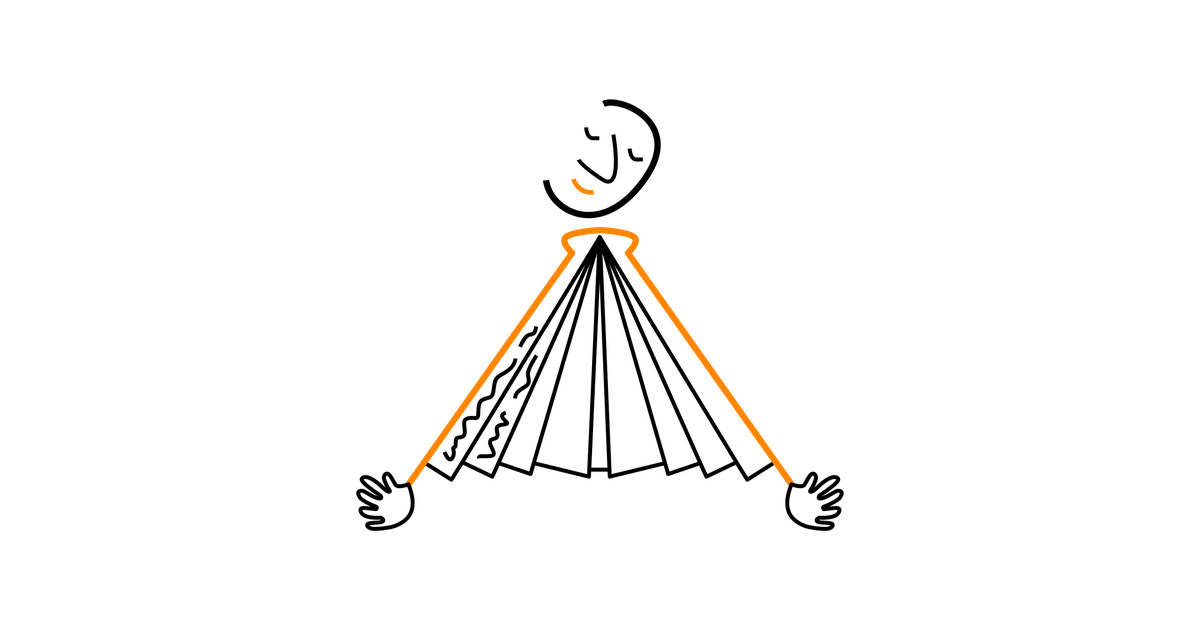
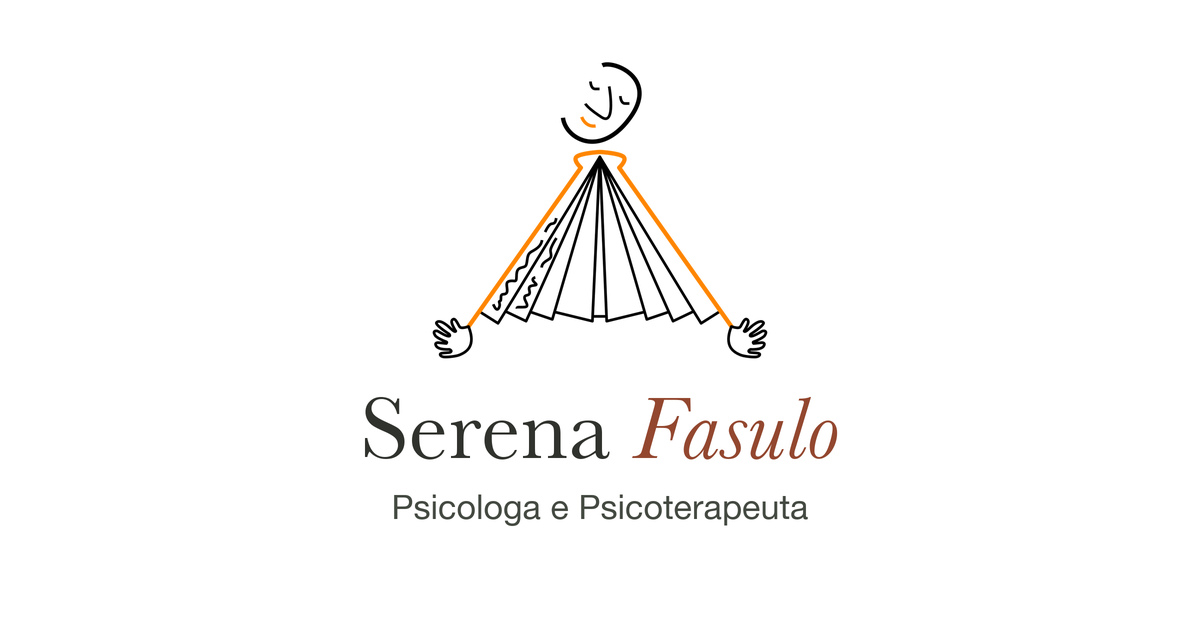
Aggiunge nome e qualifica alla card su fondo bianco

Changed region(s): [[0.2775, 0.1206, 0.7092, 0.8444], [0.4933, 0.0905, 0.5242, 0.1206]]

diff --git a/blog/storie-di-se.html b/blog/storie-di-se.html
@@ -11,16 +11,16 @@
 <meta property="og:url" content="https://01121987r-beep.github.io/serena-fasulo-demo/blog/storie-di-se.html">
 <meta property="og:title" content="Una pagina da cui ricominciare | Serena Fasulo">
 <meta property="og:description" content="Per raccontare un cambiamento si può cominciare da una cosa piccola. Anche dalla tazza che usi ogni mattina.">
-<meta property="og:image" content="https://01121987r-beep.github.io/serena-fasulo-demo/assets/serena-fasulo-social.jpg?v=2">
+<meta property="og:image" content="https://01121987r-beep.github.io/serena-fasulo-demo/assets/serena-fasulo-social.jpg?v=3">
 <meta property="og:image:type" content="image/jpeg">
 <meta property="og:image:width" content="1200">
 <meta property="og:image:height" content="630">
-<meta property="og:image:alt" content="Logo originale di Serena Fasulo, psicologa e psicoterapeuta, su sfondo bianco.">
+<meta property="og:image:alt" content="Logo su sfondo bianco con la scritta «Serena Fasulo» e la qualifica «Psicologa e Psicoterapeuta».">
 <meta name="twitter:card" content="summary_large_image">
 <meta name="twitter:title" content="Una pagina da cui ricominciare | Serena Fasulo">
 <meta name="twitter:description" content="Per raccontare un cambiamento si può cominciare da una cosa piccola. Anche dalla tazza che usi ogni mattina.">
-<meta name="twitter:image" content="https://01121987r-beep.github.io/serena-fasulo-demo/assets/serena-fasulo-social.jpg?v=2">
-<meta name="twitter:image:alt" content="Logo originale di Serena Fasulo, psicologa e psicoterapeuta, su sfondo bianco.">
+<meta name="twitter:image" content="https://01121987r-beep.github.io/serena-fasulo-demo/assets/serena-fasulo-social.jpg?v=3">
+<meta name="twitter:image:alt" content="Logo su sfondo bianco con la scritta «Serena Fasulo» e la qualifica «Psicologa e Psicoterapeuta».">
 <meta name="robots" content="noindex,nofollow">
 <link rel="icon" href="../assets/simbolo.svg" type="image/svg+xml">
 <link rel="stylesheet" href="../styles.css">

diff --git a/blog/corpo-e-ascolto.html b/blog/corpo-e-ascolto.html
@@ -11,16 +11,16 @@
 <meta property="og:url" content="https://01121987r-beep.github.io/serena-fasulo-demo/blog/corpo-e-ascolto.html">
 <meta property="og:title" content="Il peso di una giornata sulle spalle | Serena Fasulo">
 <meta property="og:description" content="A volte ci accorgiamo di come stiamo soltanto quando posiamo la borsa e lasciamo scendere le spalle.">
-<meta property="og:image" content="https://01121987r-beep.github.io/serena-fasulo-demo/assets/serena-fasulo-social.jpg?v=2">
+<meta property="og:image" content="https://01121987r-beep.github.io/serena-fasulo-demo/assets/serena-fasulo-social.jpg?v=3">
 <meta property="og:image:type" content="image/jpeg">
 <meta property="og:image:width" content="1200">
 <meta property="og:image:height" content="630">
-<meta property="og:image:alt" content="Logo originale di Serena Fasulo, psicologa e psicoterapeuta, su sfondo bianco.">
+<meta property="og:image:alt" content="Logo su sfondo bianco con la scritta «Serena Fasulo» e la qualifica «Psicologa e Psicoterapeuta».">
 <meta name="twitter:card" content="summary_large_image">
 <meta name="twitter:title" content="Il peso di una giornata sulle spalle | Serena Fasulo">
 <meta name="twitter:description" content="A volte ci accorgiamo di come stiamo soltanto quando posiamo la borsa e lasciamo scendere le spalle.">
-<meta name="twitter:image" content="https://01121987r-beep.github.io/serena-fasulo-demo/assets/serena-fasulo-social.jpg?v=2">
-<meta name="twitter:image:alt" content="Logo originale di Serena Fasulo, psicologa e psicoterapeuta, su sfondo bianco.">
+<meta name="twitter:image" content="https://01121987r-beep.github.io/serena-fasulo-demo/assets/serena-fasulo-social.jpg?v=3">
+<meta name="twitter:image:alt" content="Logo su sfondo bianco con la scritta «Serena Fasulo» e la qualifica «Psicologa e Psicoterapeuta».">
 <meta name="robots" content="noindex,nofollow">
 <link rel="icon" href="../assets/simbolo.svg" type="image/svg+xml">
 <link rel="stylesheet" href="../styles.css">

diff --git a/blog/la-parola-che-scegli-per-te.html b/blog/la-parola-che-scegli-per-te.html
@@ -11,16 +11,16 @@
 <meta property="og:url" content="https://01121987r-beep.github.io/serena-fasulo-demo/blog/la-parola-che-scegli-per-te.html">
 <meta property="og:title" content="La parola che scegli per te | Serena Fasulo">
 <meta property="og:description" content="Una vecchia annotazione a margine può raccontare quanto è cambiato il nostro modo di descriverci.">
-<meta property="og:image" content="https://01121987r-beep.github.io/serena-fasulo-demo/assets/serena-fasulo-social.jpg?v=2">
+<meta property="og:image" content="https://01121987r-beep.github.io/serena-fasulo-demo/assets/serena-fasulo-social.jpg?v=3">
 <meta property="og:image:type" content="image/jpeg">
 <meta property="og:image:width" content="1200">
 <meta property="og:image:height" content="630">
-<meta property="og:image:alt" content="Logo originale di Serena Fasulo, psicologa e psicoterapeuta, su sfondo bianco.">
+<meta property="og:image:alt" content="Logo su sfondo bianco con la scritta «Serena Fasulo» e la qualifica «Psicologa e Psicoterapeuta».">
 <meta name="twitter:card" content="summary_large_image">
 <meta name="twitter:title" content="La parola che scegli per te | Serena Fasulo">
 <meta name="twitter:description" content="Una vecchia annotazione a margine può raccontare quanto è cambiato il nostro modo di descriverci.">
-<meta name="twitter:image" content="https://01121987r-beep.github.io/serena-fasulo-demo/assets/serena-fasulo-social.jpg?v=2">
-<meta name="twitter:image:alt" content="Logo originale di Serena Fasulo, psicologa e psicoterapeuta, su sfondo bianco.">
+<meta name="twitter:image" content="https://01121987r-beep.github.io/serena-fasulo-demo/assets/serena-fasulo-social.jpg?v=3">
+<meta name="twitter:image:alt" content="Logo su sfondo bianco con la scritta «Serena Fasulo» e la qualifica «Psicologa e Psicoterapeuta».">
 <meta name="robots" content="noindex,nofollow">
 <link rel="icon" href="../assets/simbolo.svg" type="image/svg+xml">
 <link rel="stylesheet" href="../styles.css">

diff --git a/blog/index.html b/blog/index.html
@@ -11,16 +11,16 @@
 <meta property="og:url" content="https://01121987r-beep.github.io/serena-fasulo-demo/blog/index.html">
 <meta property="og:title" content="Il quaderno aperto · Blog | Serena Fasulo">
 <meta property="og:description" content="Sfoglia gli articoli del quaderno di Serena Fasulo su corpo e ascolto, storie di sé e relazioni.">
-<meta property="og:image" content="https://01121987r-beep.github.io/serena-fasulo-demo/assets/serena-fasulo-social.jpg?v=2">
+<meta property="og:image" content="https://01121987r-beep.github.io/serena-fasulo-demo/assets/serena-fasulo-social.jpg?v=3">
 <meta property="og:image:type" content="image/jpeg">
 <meta property="og:image:width" content="1200">
 <meta property="og:image:height" content="630">
-<meta property="og:image:alt" content="Logo originale di Serena Fasulo, psicologa e psicoterapeuta, su sfondo bianco.">
+<meta property="og:image:alt" content="Logo su sfondo bianco con la scritta «Serena Fasulo» e la qualifica «Psicologa e Psicoterapeuta».">
 <meta name="twitter:card" content="summary_large_image">
 <meta name="twitter:title" content="Il quaderno aperto · Blog | Serena Fasulo">
 <meta name="twitter:description" content="Sfoglia gli articoli del quaderno di Serena Fasulo su corpo e ascolto, storie di sé e relazioni.">
-<meta name="twitter:image" content="https://01121987r-beep.github.io/serena-fasulo-demo/assets/serena-fasulo-social.jpg?v=2">
-<meta name="twitter:image:alt" content="Logo originale di Serena Fasulo, psicologa e psicoterapeuta, su sfondo bianco.">
+<meta name="twitter:image" content="https://01121987r-beep.github.io/serena-fasulo-demo/assets/serena-fasulo-social.jpg?v=3">
+<meta name="twitter:image:alt" content="Logo su sfondo bianco con la scritta «Serena Fasulo» e la qualifica «Psicologa e Psicoterapeuta».">
 <meta name="robots" content="noindex,nofollow">
 <link rel="icon" href="../assets/simbolo.svg" type="image/svg+xml">
 <link rel="stylesheet" href="../styles.css">

diff --git a/blog/relazioni.html b/blog/relazioni.html
@@ -11,16 +11,16 @@
 <meta property="og:url" content="https://01121987r-beep.github.io/serena-fasulo-demo/blog/relazioni.html">
 <meta property="og:title" content="La distanza giusta per dirsi qualcosa | Serena Fasulo">
 <meta property="og:description" content="Una conversazione può cambiare già nel momento in cui scegliamo come cominciarla.">
-<meta property="og:image" content="https://01121987r-beep.github.io/serena-fasulo-demo/assets/serena-fasulo-social.jpg?v=2">
+<meta property="og:image" content="https://01121987r-beep.github.io/serena-fasulo-demo/assets/serena-fasulo-social.jpg?v=3">
 <meta property="og:image:type" content="image/jpeg">
 <meta property="og:image:width" content="1200">
 <meta property="og:image:height" content="630">
-<meta property="og:image:alt" content="Logo originale di Serena Fasulo, psicologa e psicoterapeuta, su sfondo bianco.">
+<meta property="og:image:alt" content="Logo su sfondo bianco con la scritta «Serena Fasulo» e la qualifica «Psicologa e Psicoterapeuta».">
 <meta name="twitter:card" content="summary_large_image">
 <meta name="twitter:title" content="La distanza giusta per dirsi qualcosa | Serena Fasulo">
 <meta name="twitter:description" content="Una conversazione può cambiare già nel momento in cui scegliamo come cominciarla.">
-<meta name="twitter:image" content="https://01121987r-beep.github.io/serena-fasulo-demo/assets/serena-fasulo-social.jpg?v=2">
-<meta name="twitter:image:alt" content="Logo originale di Serena Fasulo, psicologa e psicoterapeuta, su sfondo bianco.">
+<meta name="twitter:image" content="https://01121987r-beep.github.io/serena-fasulo-demo/assets/serena-fasulo-social.jpg?v=3">
+<meta name="twitter:image:alt" content="Logo su sfondo bianco con la scritta «Serena Fasulo» e la qualifica «Psicologa e Psicoterapeuta».">
 <meta name="robots" content="noindex,nofollow">
 <link rel="icon" href="../assets/simbolo.svg" type="image/svg+xml">
 <link rel="stylesheet" href="../styles.css">

diff --git a/blog/un-tempo-tra-due-impegni.html b/blog/un-tempo-tra-due-impegni.html
@@ -11,16 +11,16 @@
 <meta property="og:url" content="https://01121987r-beep.github.io/serena-fasulo-demo/blog/un-tempo-tra-due-impegni.html">
 <meta property="og:title" content="Un tempo tra due impegni | Serena Fasulo">
 <meta property="og:description" content="Il treno sta per arrivare. Per una volta il telefono resta nella tasca del cappotto.">
-<meta property="og:image" content="https://01121987r-beep.github.io/serena-fasulo-demo/assets/serena-fasulo-social.jpg?v=2">
+<meta property="og:image" content="https://01121987r-beep.github.io/serena-fasulo-demo/assets/serena-fasulo-social.jpg?v=3">
 <meta property="og:image:type" content="image/jpeg">
 <meta property="og:image:width" content="1200">
 <meta property="og:image:height" content="630">
-<meta property="og:image:alt" content="Logo originale di Serena Fasulo, psicologa e psicoterapeuta, su sfondo bianco.">
+<meta property="og:image:alt" content="Logo su sfondo bianco con la scritta «Serena Fasulo» e la qualifica «Psicologa e Psicoterapeuta».">
 <meta name="twitter:card" content="summary_large_image">
 <meta name="twitter:title" content="Un tempo tra due impegni | Serena Fasulo">
 <meta name="twitter:description" content="Il treno sta per arrivare. Per una volta il telefono resta nella tasca del cappotto.">
-<meta name="twitter:image" content="https://01121987r-beep.github.io/serena-fasulo-demo/assets/serena-fasulo-social.jpg?v=2">
-<meta name="twitter:image:alt" content="Logo originale di Serena Fasulo, psicologa e psicoterapeuta, su sfondo bianco.">
+<meta name="twitter:image" content="https://01121987r-beep.github.io/serena-fasulo-demo/assets/serena-fasulo-social.jpg?v=3">
+<meta name="twitter:image:alt" content="Logo su sfondo bianco con la scritta «Serena Fasulo» e la qualifica «Psicologa e Psicoterapeuta».">
 <meta name="robots" content="noindex,nofollow">
 <link rel="icon" href="../assets/simbolo.svg" type="image/svg+xml">
 <link rel="stylesheet" href="../styles.css">

diff --git a/index.html b/index.html
@@ -11,16 +11,16 @@
 <meta property="og:url" content="https://01121987r-beep.github.io/serena-fasulo-demo/">
 <meta property="og:title" content="Serena Fasulo | Psicologa">
 <meta property="og:description" content="Conosci Serena Fasulo, esplora i percorsi e leggi il quaderno di psicologia.">
-<meta property="og:image" content="https://01121987r-beep.github.io/serena-fasulo-demo/assets/serena-fasulo-social.jpg?v=2">
+<meta property="og:image" content="https://01121987r-beep.github.io/serena-fasulo-demo/assets/serena-fasulo-social.jpg?v=3">
 <meta property="og:image:type" content="image/jpeg">
 <meta property="og:image:width" content="1200">
 <meta property="og:image:height" content="630">
-<meta property="og:image:alt" content="Logo originale di Serena Fasulo, psicologa e psicoterapeuta, su sfondo bianco.">
+<meta property="og:image:alt" content="Logo su sfondo bianco con la scritta «Serena Fasulo» e la qualifica «Psicologa e Psicoterapeuta».">
 <meta name="twitter:card" content="summary_large_image">
 <meta name="twitter:title" content="Serena Fasulo | Psicologa">
 <meta name="twitter:description" content="Conosci Serena Fasulo, esplora i percorsi e leggi il quaderno di psicologia.">
-<meta name="twitter:image" content="https://01121987r-beep.github.io/serena-fasulo-demo/assets/serena-fasulo-social.jpg?v=2">
-<meta name="twitter:image:alt" content="Logo originale di Serena Fasulo, psicologa e psicoterapeuta, su sfondo bianco.">
+<meta name="twitter:image" content="https://01121987r-beep.github.io/serena-fasulo-demo/assets/serena-fasulo-social.jpg?v=3">
+<meta name="twitter:image:alt" content="Logo su sfondo bianco con la scritta «Serena Fasulo» e la qualifica «Psicologa e Psicoterapeuta».">
 <meta name="robots" content="noindex,nofollow">
 <link rel="icon" href="assets/simbolo.svg" type="image/svg+xml">
 <link rel="stylesheet" href="styles.css">
